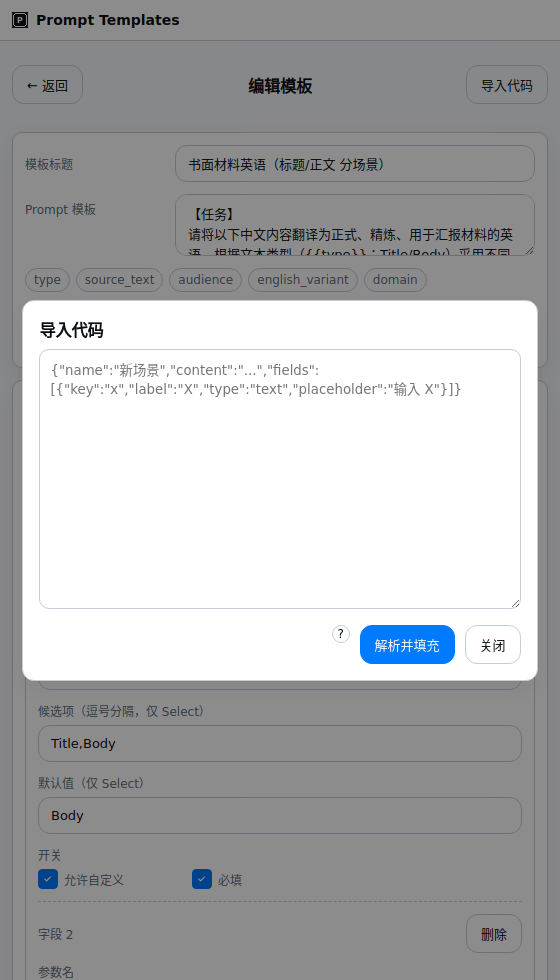
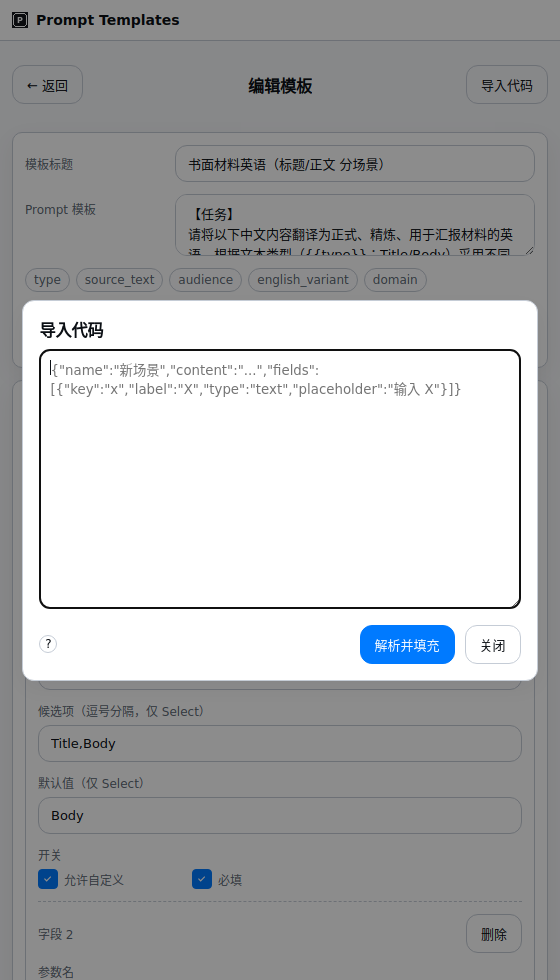
Close import modal before taking screenshot and navigating

Changed region(s): [[0.9107, 0.3673, 0.9411, 0.6122], [0.0607, 0.3673, 0.0911, 0.6122], [0.0607, 0.6429, 0.0911, 0.6735]]

diff --git a/tools/screenshot.js b/tools/screenshot.js
@@ -61,6 +61,10 @@ async function ensureDir(p){ if(!fs.existsSync(p)) fs.mkdirSync(p, { recursive: 
   await sleep(200);
   await page.screenshot({ path: path.join(assetsDir, 'edit-import-popup.png') });
 
+  // Close import modal before navigating
+  await page.click('#modalCancel');
+  await page.waitForFunction(() => !document.querySelector('#importOverlay')?.classList.contains('show'));
+
   // Settings
   await page.click('#back1');
   await waitForCards(page);
